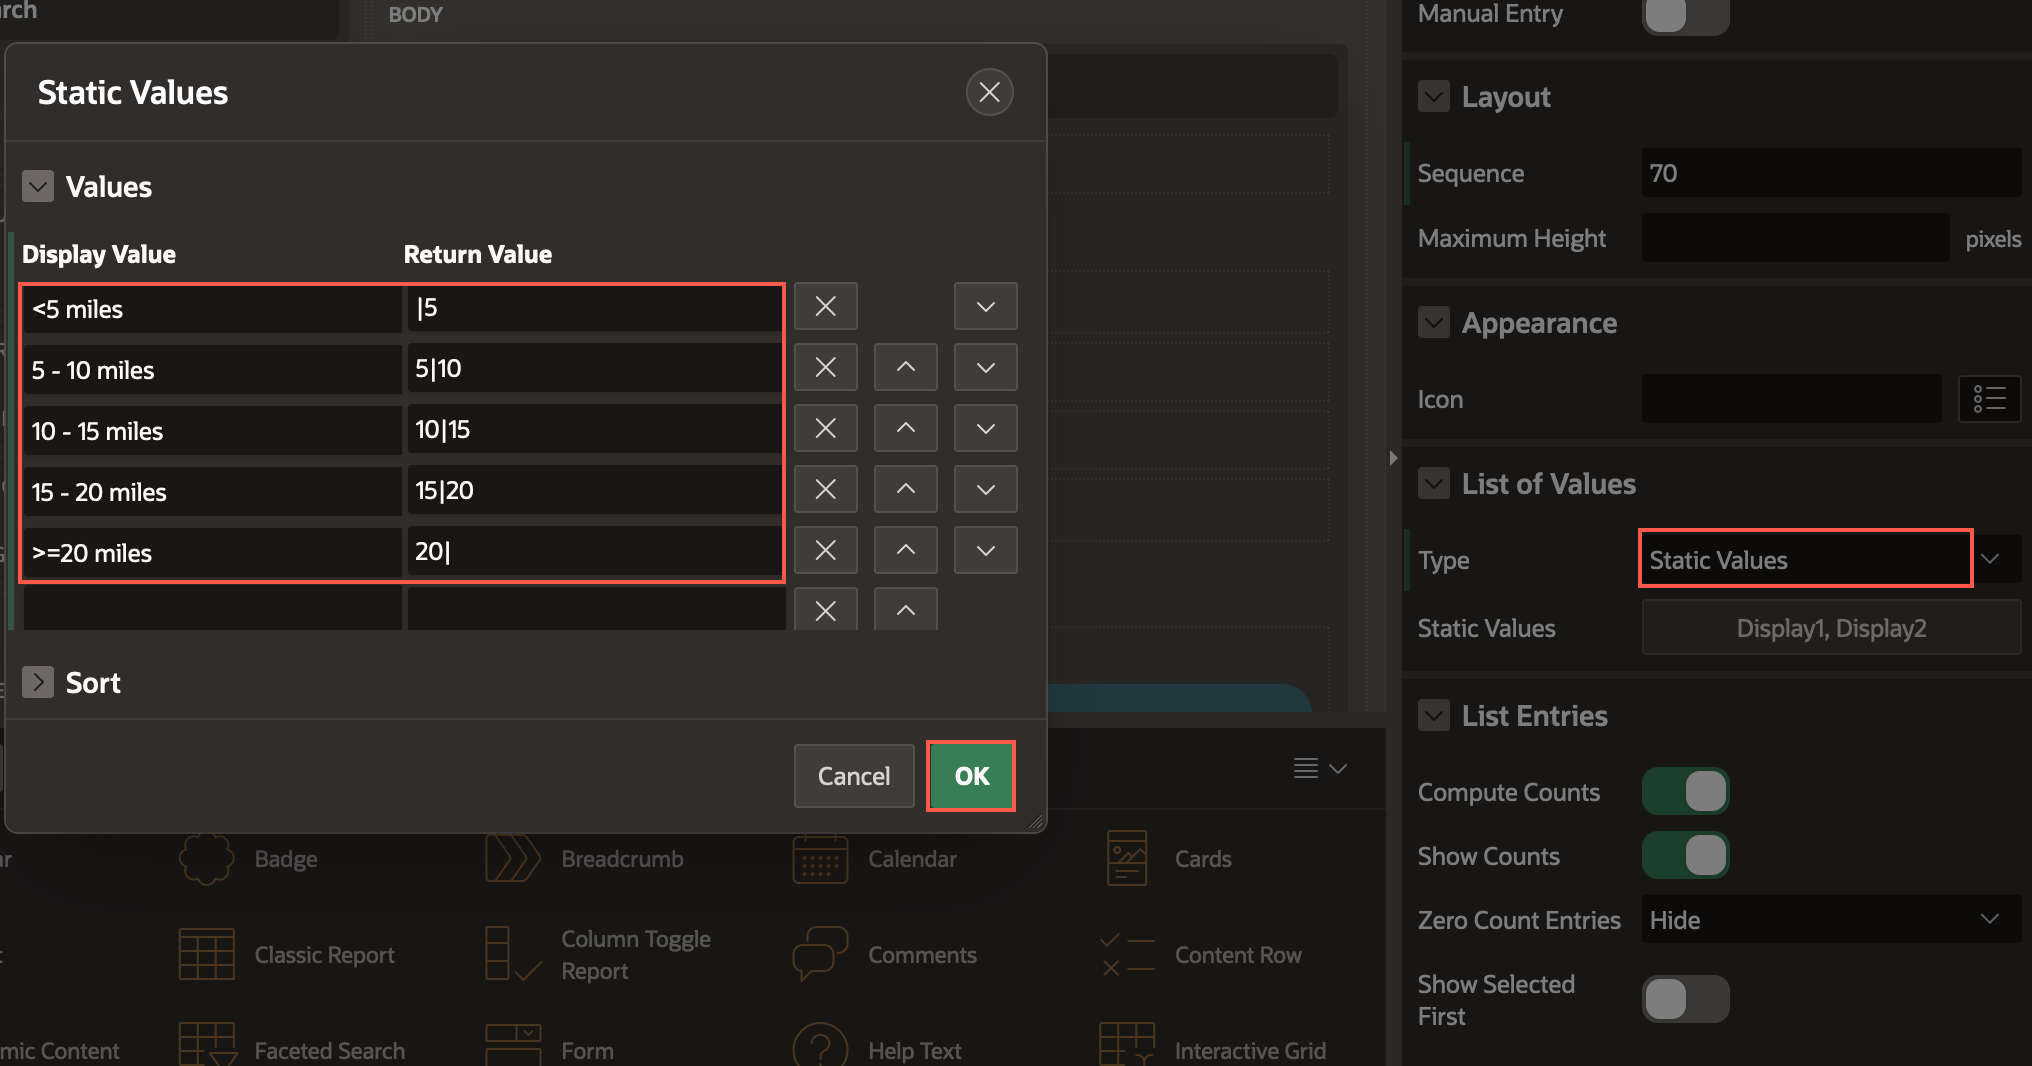
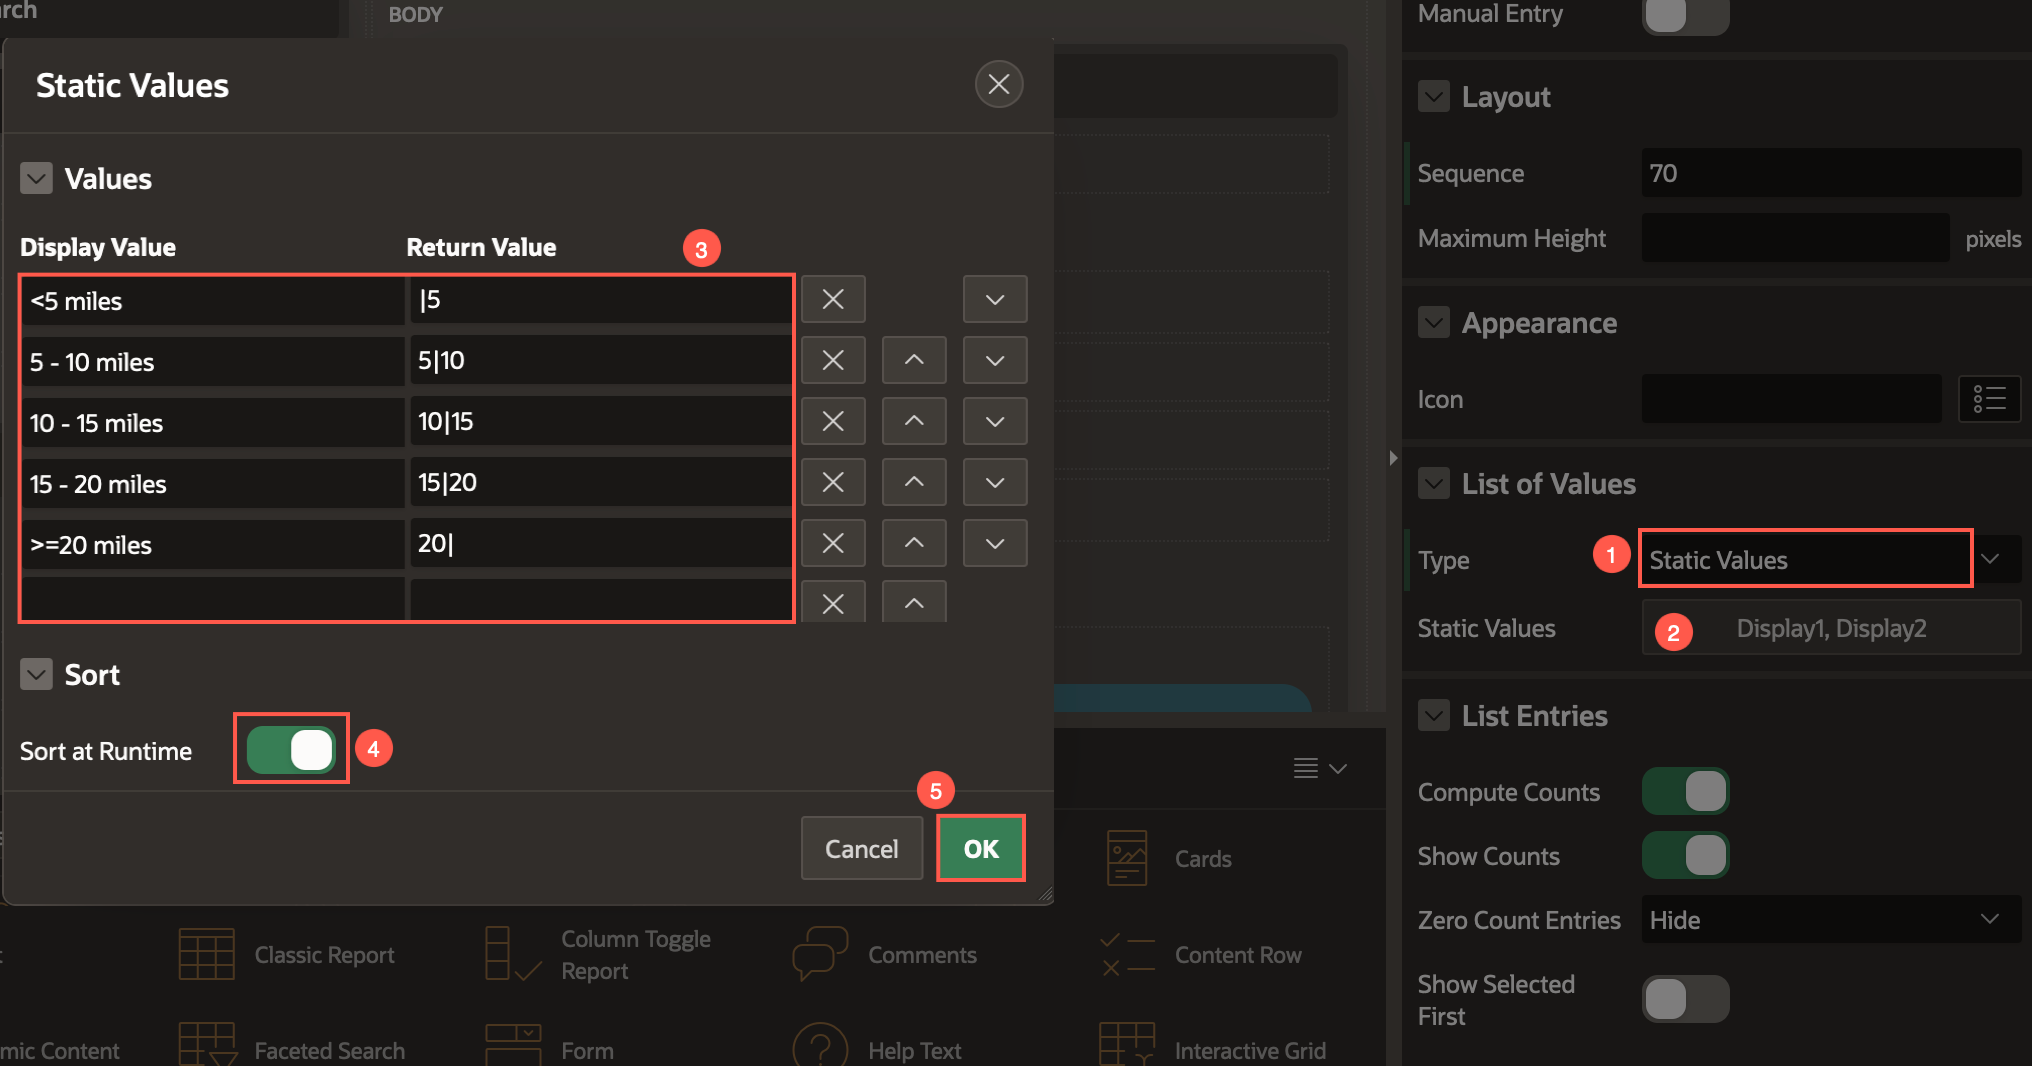
wms: 11628 - Feedback fixes and new steps (#166)
* ocw manifest files

* Added Movies-Lab workshop files

* ocw manifest files

* 22.1 updates to Spreadsheet Lab

* 22.1 updates

* Update 1-sign-up-apex.md

* Updated absolute urls

* updated the common urls

* updated the urls

* Added a NOTE to indicate version difference

* updated path for Lab 4

* Updated the paths

* Updated the Workshop Title

* Update screenshot in Task 2 Step 7

* Added alt text to images

* URLS updated in index.html

* Updated the steps for Option 2: Sign up for APEX using ADB

* alt text for images

* Shopping App 22.1 updates

* 22.1 updates

* archiving Shopping Cart 21.2

* Updated manifest files for OCW

* Feedback updated for 22.1

* Updated the PL/SQL code for checkout

* Update process-properties.png

* Feedback update 22.1

* Hid the old walkthrough videos

* Alt text for all images

* Delete clothing-images.zip

* Updated steps for Livelabs Green Button

* Changes to steps for Livelabs Green button

* Fixed the comments wrt PR

* Updated screenshots in Common

* OCW updates to optional labs

* Updated filename in manifest for optional lab

* OCI console Redwood theme screenshots

Replacement of screenshots as per the new Redwood theme for OCI console

* Resolved issue in APEX 22.2 for Task 5

Added an additional step to set the source for Region in Task 5.

* Update manifest.json

Lab 4 was pointing to an invalid lab. I have updated it to the correct folder path.

* First Draft for New Workshop
[…]

diff --git a/nyc-genai-lab/3-using-genai/3-using-genai.md b/nyc-genai-lab/3-using-genai/3-using-genai.md
@@ -106,10 +106,44 @@ To use the Generative AI service in APEX, you need to first configure it at the 
     - Execution > Point: **Before Regions**
     - Under Computation:
         - Type: **SQL Query (Single Return Value)**
-        - SQL Query: 
+        - SQL Query: For the SQL Query, we will make use of the APEX Assistant to generate the query. Follow the next steps to generate the SQL query. Click the **Code Editor** icon.
 
-        ```
-        <copy>
+    ![Page Designer](images/compute-sql.png =40%x*)
+
+6. In the Code Editor, click **APEX Assistant** to open a drawer where you can chat with the AI Assistant. Enter the following prompt in the chat box and click **Send**:
+    ```
+    <copy>
+        Help me create a query that returns only one column concatenating the following information for the HIGHSCHOOLS table:
+
+        Please post the description of the column and the value, for example:
+
+        'Overview of the school : '|| OVERVIEW_PARAGRAPH ||chr(10) || chr(13)||
+
+
+        Overview of the school,
+        Language Courses, 
+        Advanced Placement Courses,
+        Diversity in Admission Policy,
+        extra curricular activities ,
+        Public Schools Athletic League (PSAL) sports for boys,
+        Public Schools Athletic League (PSAL) sports for girls, 
+        facilities, 
+        Academic opportunities 
+
+        filtering by the id of the school
+
+    </copy>
+    ```
+    ![Page Designer](images/enter-prompt.png ' ')
+
+7. The AI Assistant suggests a SQL Query. You can provide further prompts to refine the query. Once you are happy with the query, click **Insert**. 
+
+    ![Page Designer](images/insert-query.png ' ')
+
+8. The SQL query is inserted into the Code Editor. Replace *your\_school\_id* with **:P3\_SCHOOL\_ID**. Click **Validate**. The SQL query should look like the following:
+
+    ```
+    <copy>
         SELECT
         'Overview of the school : '|| OVERVIEW_PARAGRAPH ||chr(10) || chr(13)||
         'The following Language Courses are taught here : '||LANGUAGE_CLASSES||chr(10) || chr(13)||
@@ -125,11 +159,14 @@ To use the Generative AI service in APEX, you need to first configure it at the 
  
         FROM HIGHSCHOOLS WHERE id = :P3_SCHOOL_ID;
         
-        </copy>
-        ```
+    </copy>
+    ```
 
-    ![Page Designer](images/compute-sql.png ' ')
+    ![Page Designer](images/edit-validate.png ' ')
 
+9. If the validation is successful, click **OK**.
+
+    ![Page Designer](images/success-ok.png ' ')
 
 ## Task 4: Create a Dynamic Action for Chat Widget
 

diff --git a/nyc-genai-lab/2-schools-on-map/2-schools-on-map.md b/nyc-genai-lab/2-schools-on-map/2-schools-on-map.md
@@ -294,6 +294,8 @@ In this task, you add a new Distance facet to filter schools based on Spatial di
         | 15 - 20 miles | 15\|20     |
         | >=20 miles    | 20\|       |
 
+        - Sort at Runtime: Enable the Toggle button to **ON**.
+        
         Click **OK**.
 
         ![Page Designer](images/static-values.png ' ')
